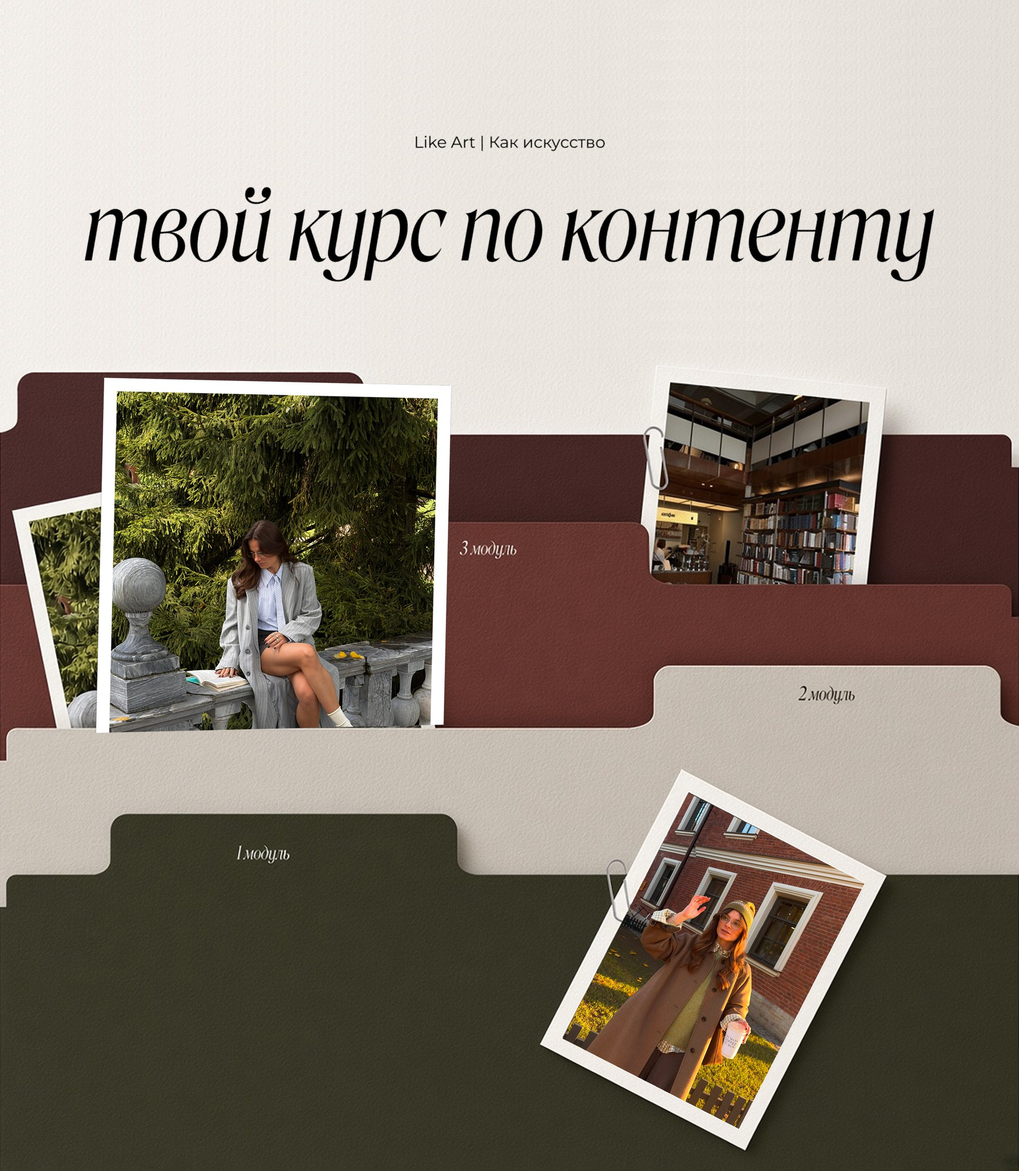
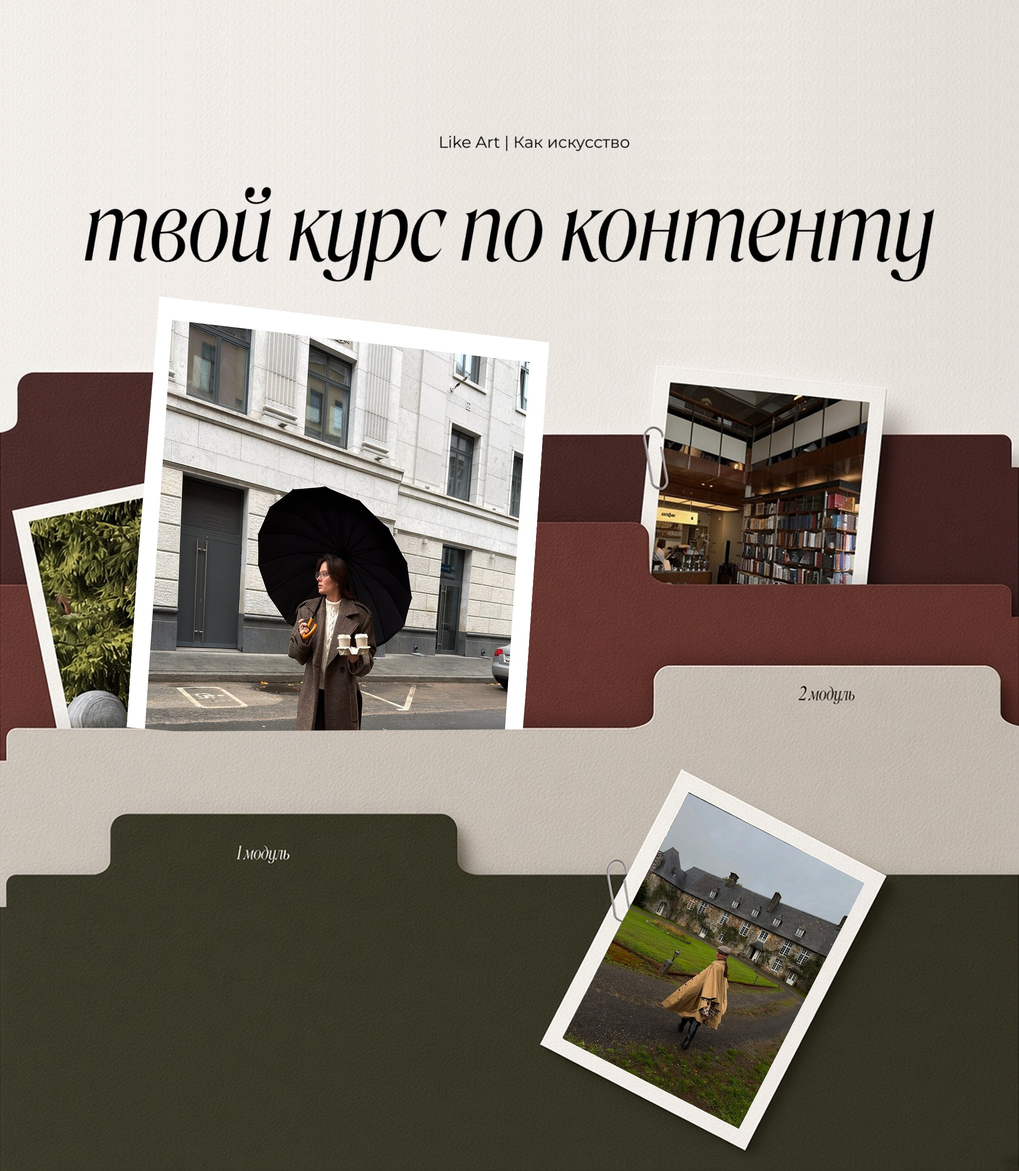
Replace /start image; re-upload images when the file changes
The file_id cache is keyed by path and modification time, so a replaced
image is picked up after git pull without restarting the bot.

Claude-Session: https://claude.ai/code/session_01PfES8Fx2SnoNjCsNu5nzja

Changed region(s): [[0.0929, 0.2498, 0.5575, 0.6245], [0.5575, 0.6869, 0.8673, 0.9679], [0.4336, 0.0937, 0.5885, 0.1249]]

diff --git a/course-bot/bot/handlers_user.py b/course-bot/bot/handlers_user.py
@@ -44,7 +44,7 @@ async def _send_photo(bot: Bot, sc: Scenario, chat_id: int, photo: str, **kw):
     local = sc.media_path(photo)
     if not local:
         return await bot.send_photo(chat_id, photo, **kw)
-    key = str(local)
+    key = f"{local}:{local.stat().st_mtime_ns}"  # new file contents → new upload
     if key in _file_ids:
         try:
             return await bot.send_photo(chat_id, _file_ids[key], **kw)
